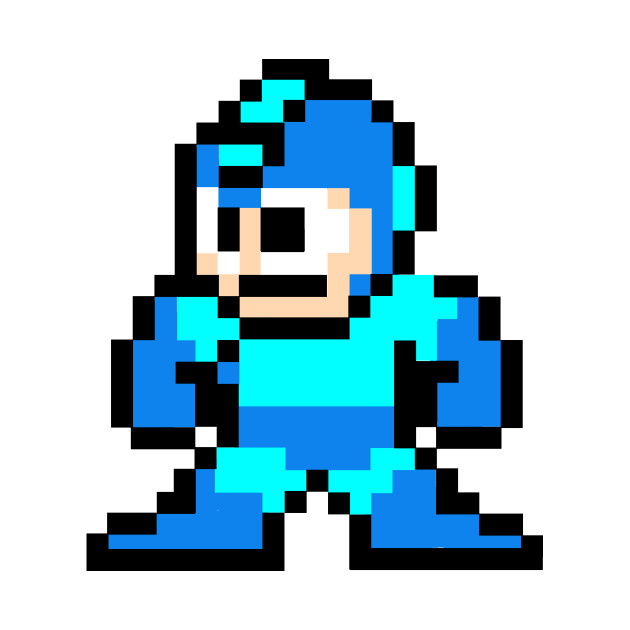
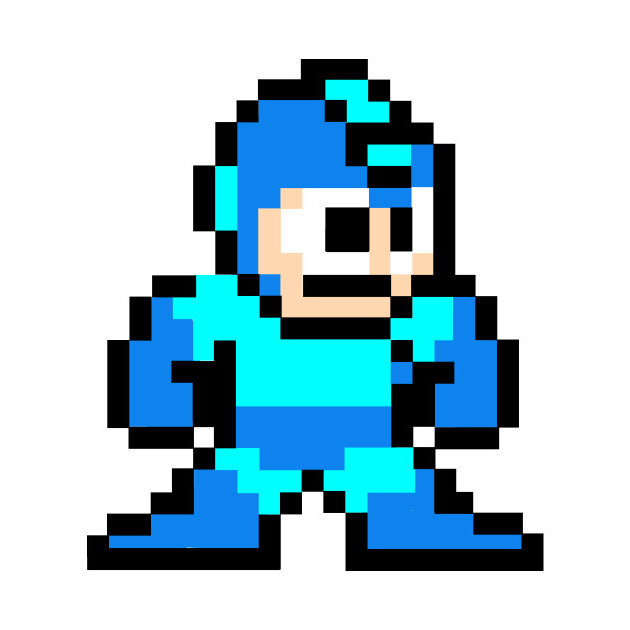
Fixed animations and added flipping

diff --git a/DisplayTest.java b/DisplayTest.java
@@ -47,95 +47,98 @@
          stage.show();
          
          scene.setOnKeyPressed(new EventHandler<KeyEvent>() {
-            @Override
-            public void handle(KeyEvent event) {
-                switch (event.getCode()) {
-                    case UP:    up = true; break;
-                    case LEFT:  left = true; break;
-                    case RIGHT: right = true; break;
-                }
-            }
-        });
+             @Override
+             public void handle(KeyEvent event) {
+                 switch (event.getCode()) {
+                     case UP:    up = true; break;
+                     case LEFT:  left = true; break;
+                     case RIGHT: right = true; break;
+                 }
+             }
+         });
 
-        scene.setOnKeyReleased(new EventHandler<KeyEvent>() {
-            @Override
-            public void handle(KeyEvent event) {
-                switch (event.getCode()) {
-                    case UP:    up = false; break;
-                    case LEFT:  left = false; break;
-                    case RIGHT: right = false; break;
-                }
-            }
-        });
-
-        stage.setScene(scene);
-        stage.show();
-
-        AnimationTimer timer = new AnimationTimer() {
-            @Override
-            public void handle(long now) {
-                double futureXVel = XVel, futureYVel = YVel;
-                
-                //Every frame, do friction and gravity(to be implemented)
-                futureXVel -= Math.signum(XVel) * FRICT_ACC/30;
-                futureYVel += GRAV_ACC/30;
-                
-                //keypresses
-                if(up && iv2.getY() == 300)
-                    futureYVel -= JUMP_ACC;
-                if(left)
-                    futureXVel -= X_ACC / 30;
-                if(right)
-                    futureXVel += X_ACC / 30;
-                
-                //Stopping player if velocity passes 0 (friction)
-                if((int)Math.signum(futureXVel) == -1 * (int)Math.signum(XVel)
-                    && !left && !right)
-                    XVel = 0;
-                else
-                    if(Math.abs(XVel) <= MAX_VEL && Math.abs(futureXVel) > MAX_VEL) //velocity cap
-                        XVel = Math.signum(XVel) * MAX_VEL;
-                    else
-                        XVel = futureXVel; //normal acceleration
-                
-                //collision with floor
-                if(iv2.getY() + futureYVel > 300)
-                {
-                    YVel = 0;
-                    iv2.setY(300);
-                }
-                else
-                    YVel = futureYVel; //normal acceleration
-                
-                //increment position
-                iv2.setX(iv2.getX() + XVel);
-                iv2.setY(iv2.getY() + YVel);
-                
-                //switching sprites every 15 frames
-                if(runTimer == 15)
-                {
-                    runTimer = 0;
-                    if(runAnim)
-                        iv2.setImage(run1);
-                    else
-                        iv2.setImage(run2);
-                    runAnim = !runAnim;
-                }
-                runTimer ++;
-                    
-                //character sprite processing
-                if(XVel == 0)
-                {
-                    
-                }
-                    
-            }
-        };
-        timer.start();
+         scene.setOnKeyReleased(new EventHandler<KeyEvent>() {
+             @Override
+             public void handle(KeyEvent event) {
+                 switch (event.getCode()) {
+                     case UP:    up = false; break;
+                     case LEFT:  left = false; break;
+                     case RIGHT: right = false; break;
+                 }
+             }
+         });
          
-     }
-
-     public static void main(String[] args) {
-         Application.launch(args);
-     }
+         stage.setScene(scene);
+         stage.show();
+ 
+         AnimationTimer timer = new AnimationTimer() {
+             @Override
+             public void handle(long now) {
+                 double futureXVel = XVel, futureYVel = YVel;
+                 
+                 //Every frame, do friction and gravity(to be implemented)
+                 futureXVel -= Math.signum(XVel) * FRICT_ACC/30;
+                 futureYVel += GRAV_ACC/30;
+                 
+                 //keypresses
+                 if(up && iv2.getY() == 300)
+                     futureYVel -= JUMP_ACC;
+                 if(left)
+                     futureXVel -= X_ACC / 30;
+                 if(right)
+                     futureXVel += X_ACC / 30;
+                 
+                 //Stopping player if velocity passes 0 (friction)
+                 if((int)Math.signum(futureXVel) == -1 * (int)Math.signum(XVel)
+                     && !left && !right)
+                     XVel = 0;
+                 else
+                     if(Math.abs(XVel) <= MAX_VEL && Math.abs(futureXVel) > MAX_VEL) //velocity cap
+                         XVel = Math.signum(XVel) * MAX_VEL;
+                     else
+                         XVel = futureXVel; //normal acceleration
+                 
+                 //collision with floor
+                 if(iv2.getY() + futureYVel > 300)
+                 {
+                     YVel = 0;
+                     iv2.setY(300);
+                 }
+                 else
+                     YVel = futureYVel; //normal acceleration
+                 
+                 //increment position
+                 iv2.setX(iv2.getX() + XVel);
+                 iv2.setY(iv2.getY() + YVel);
+                 
+                 //switching sprites every 15 frames
+                 if(XVel == 0)
+                 {
+                     runTimer = 0;
+                     iv2.setImage(still);
+                 }
+                 else
+                     if(XVel > 0)
+                         iv2.setScaleX(1);
+                     else
+                         iv2.setScaleX(-1);
+                 if(runTimer == 15)
+                 {
+                     runTimer = 0;
+                     if(runAnim)
+                         iv2.setImage(run1);
+                     else
+                         iv2.setImage(run2);
+                     runAnim = !runAnim;
+                 }
+                 runTimer ++;
+             }
+         };
+         timer.start();
+          
+      }
+ 
+      public static void main(String[] args) {
+          Application.launch(args);
+      }
  }
